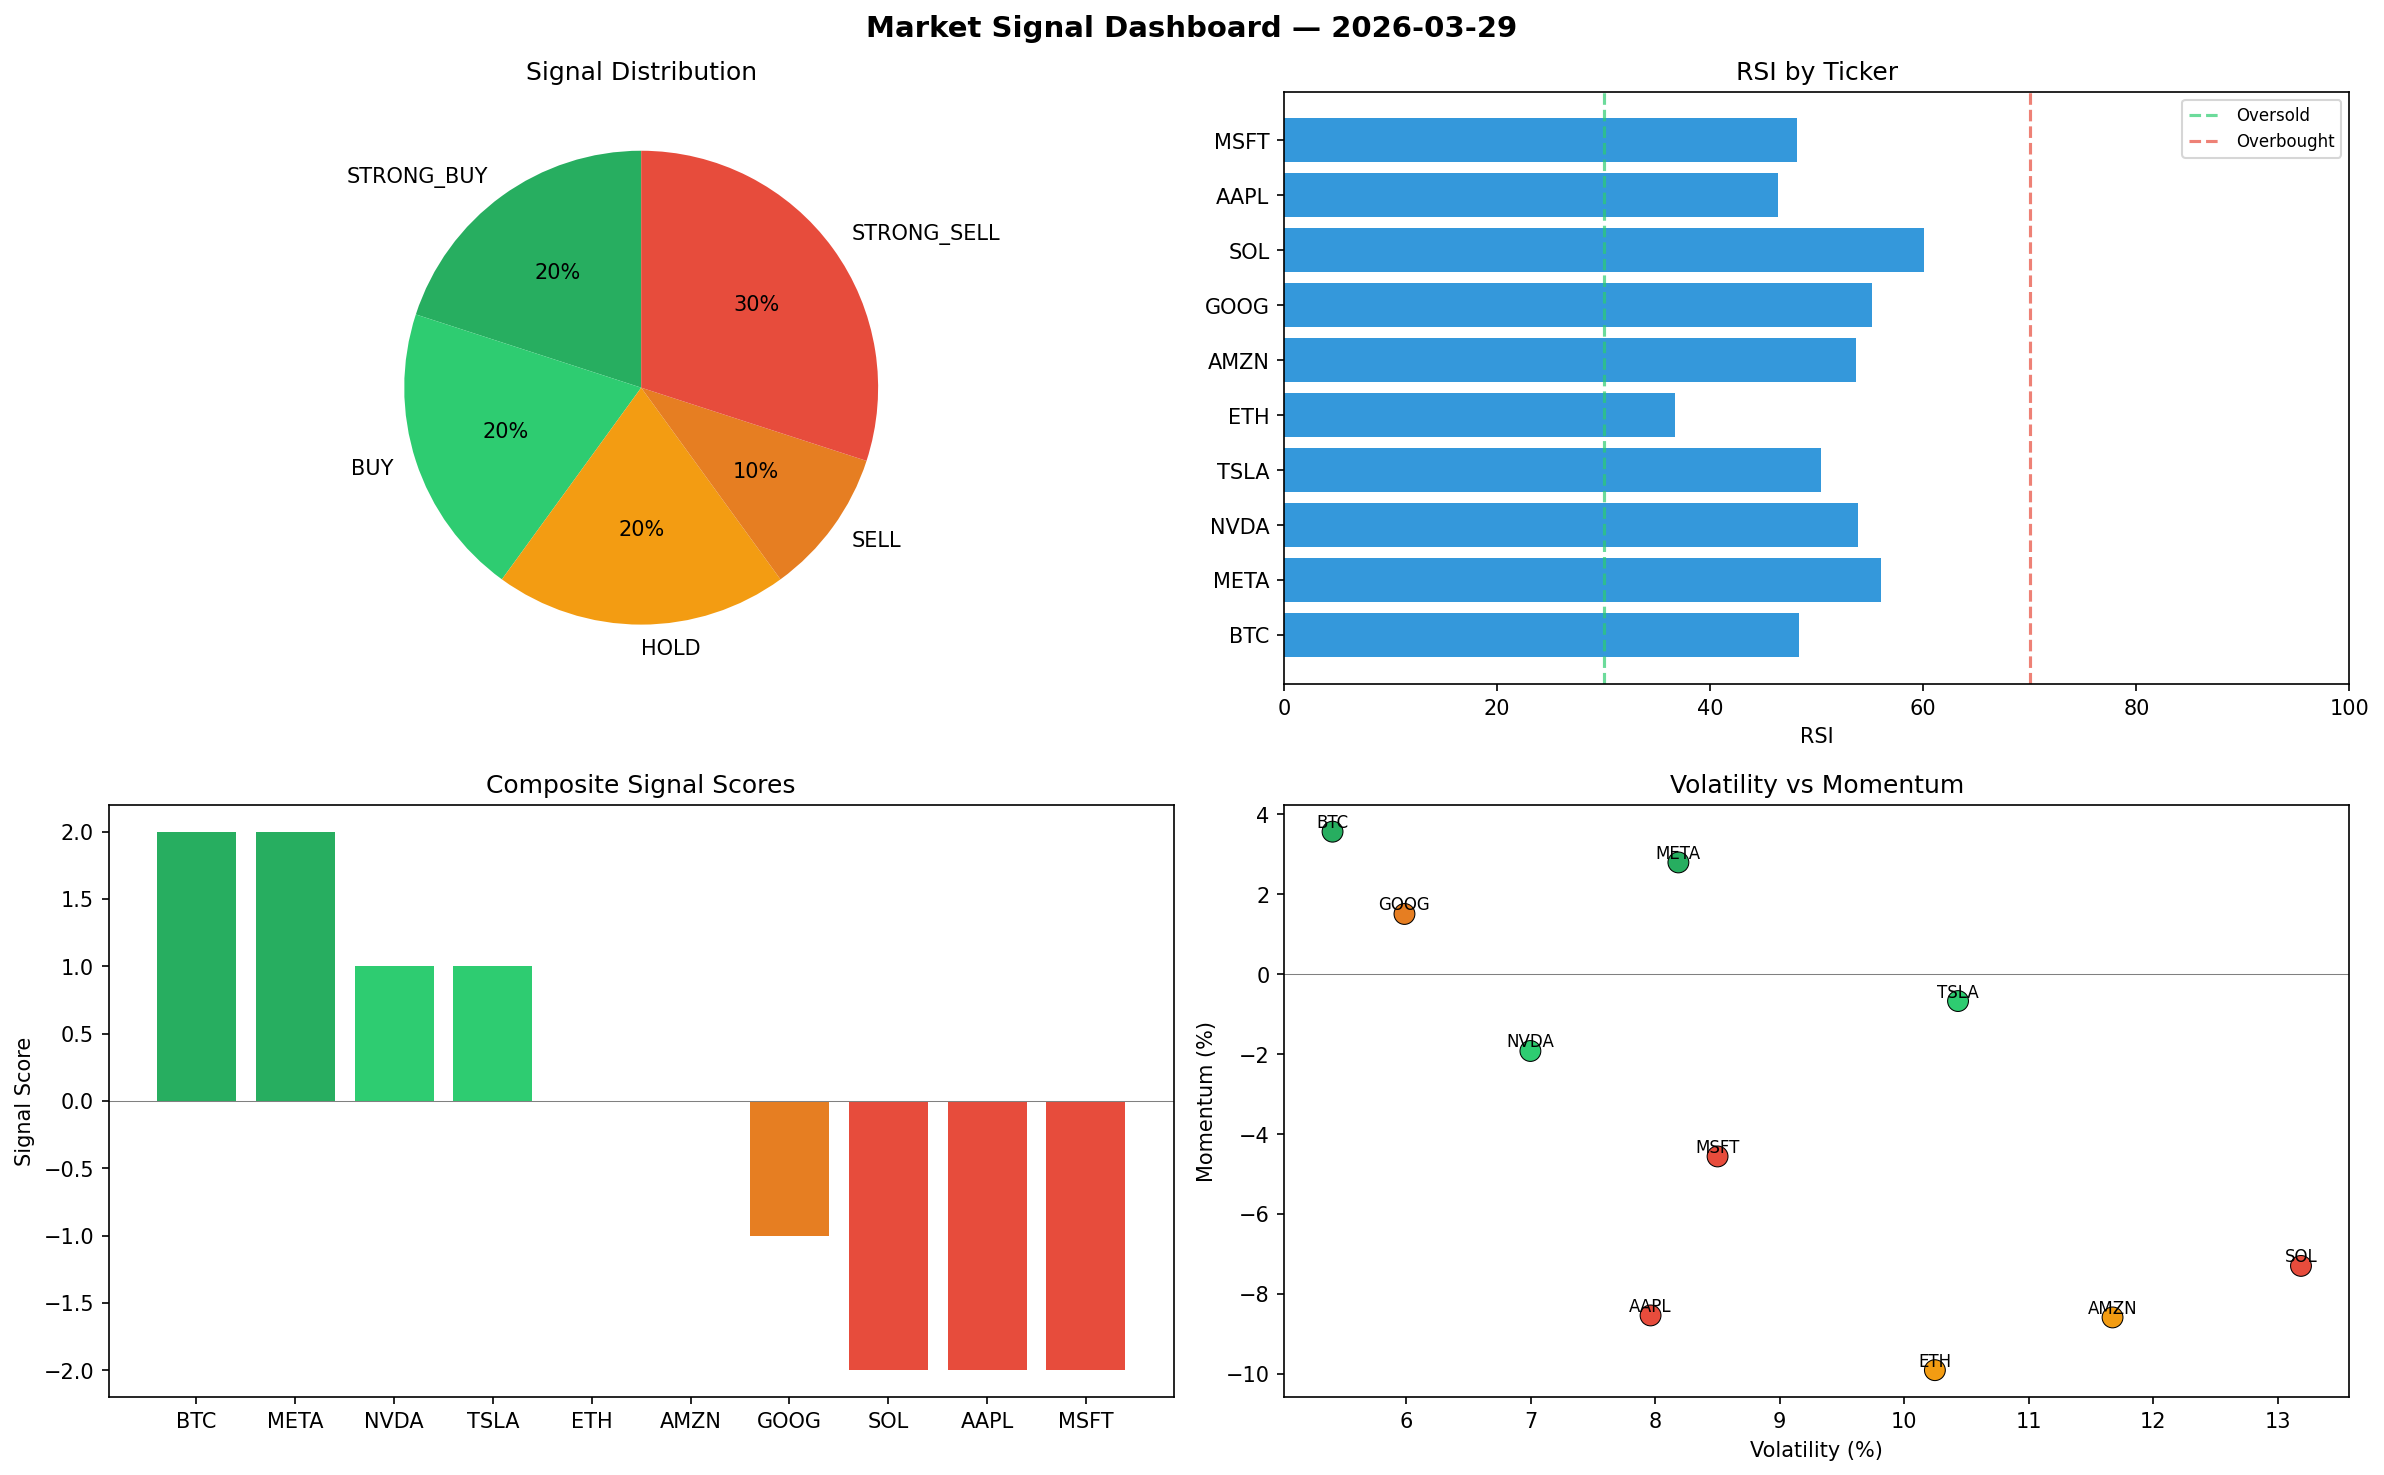
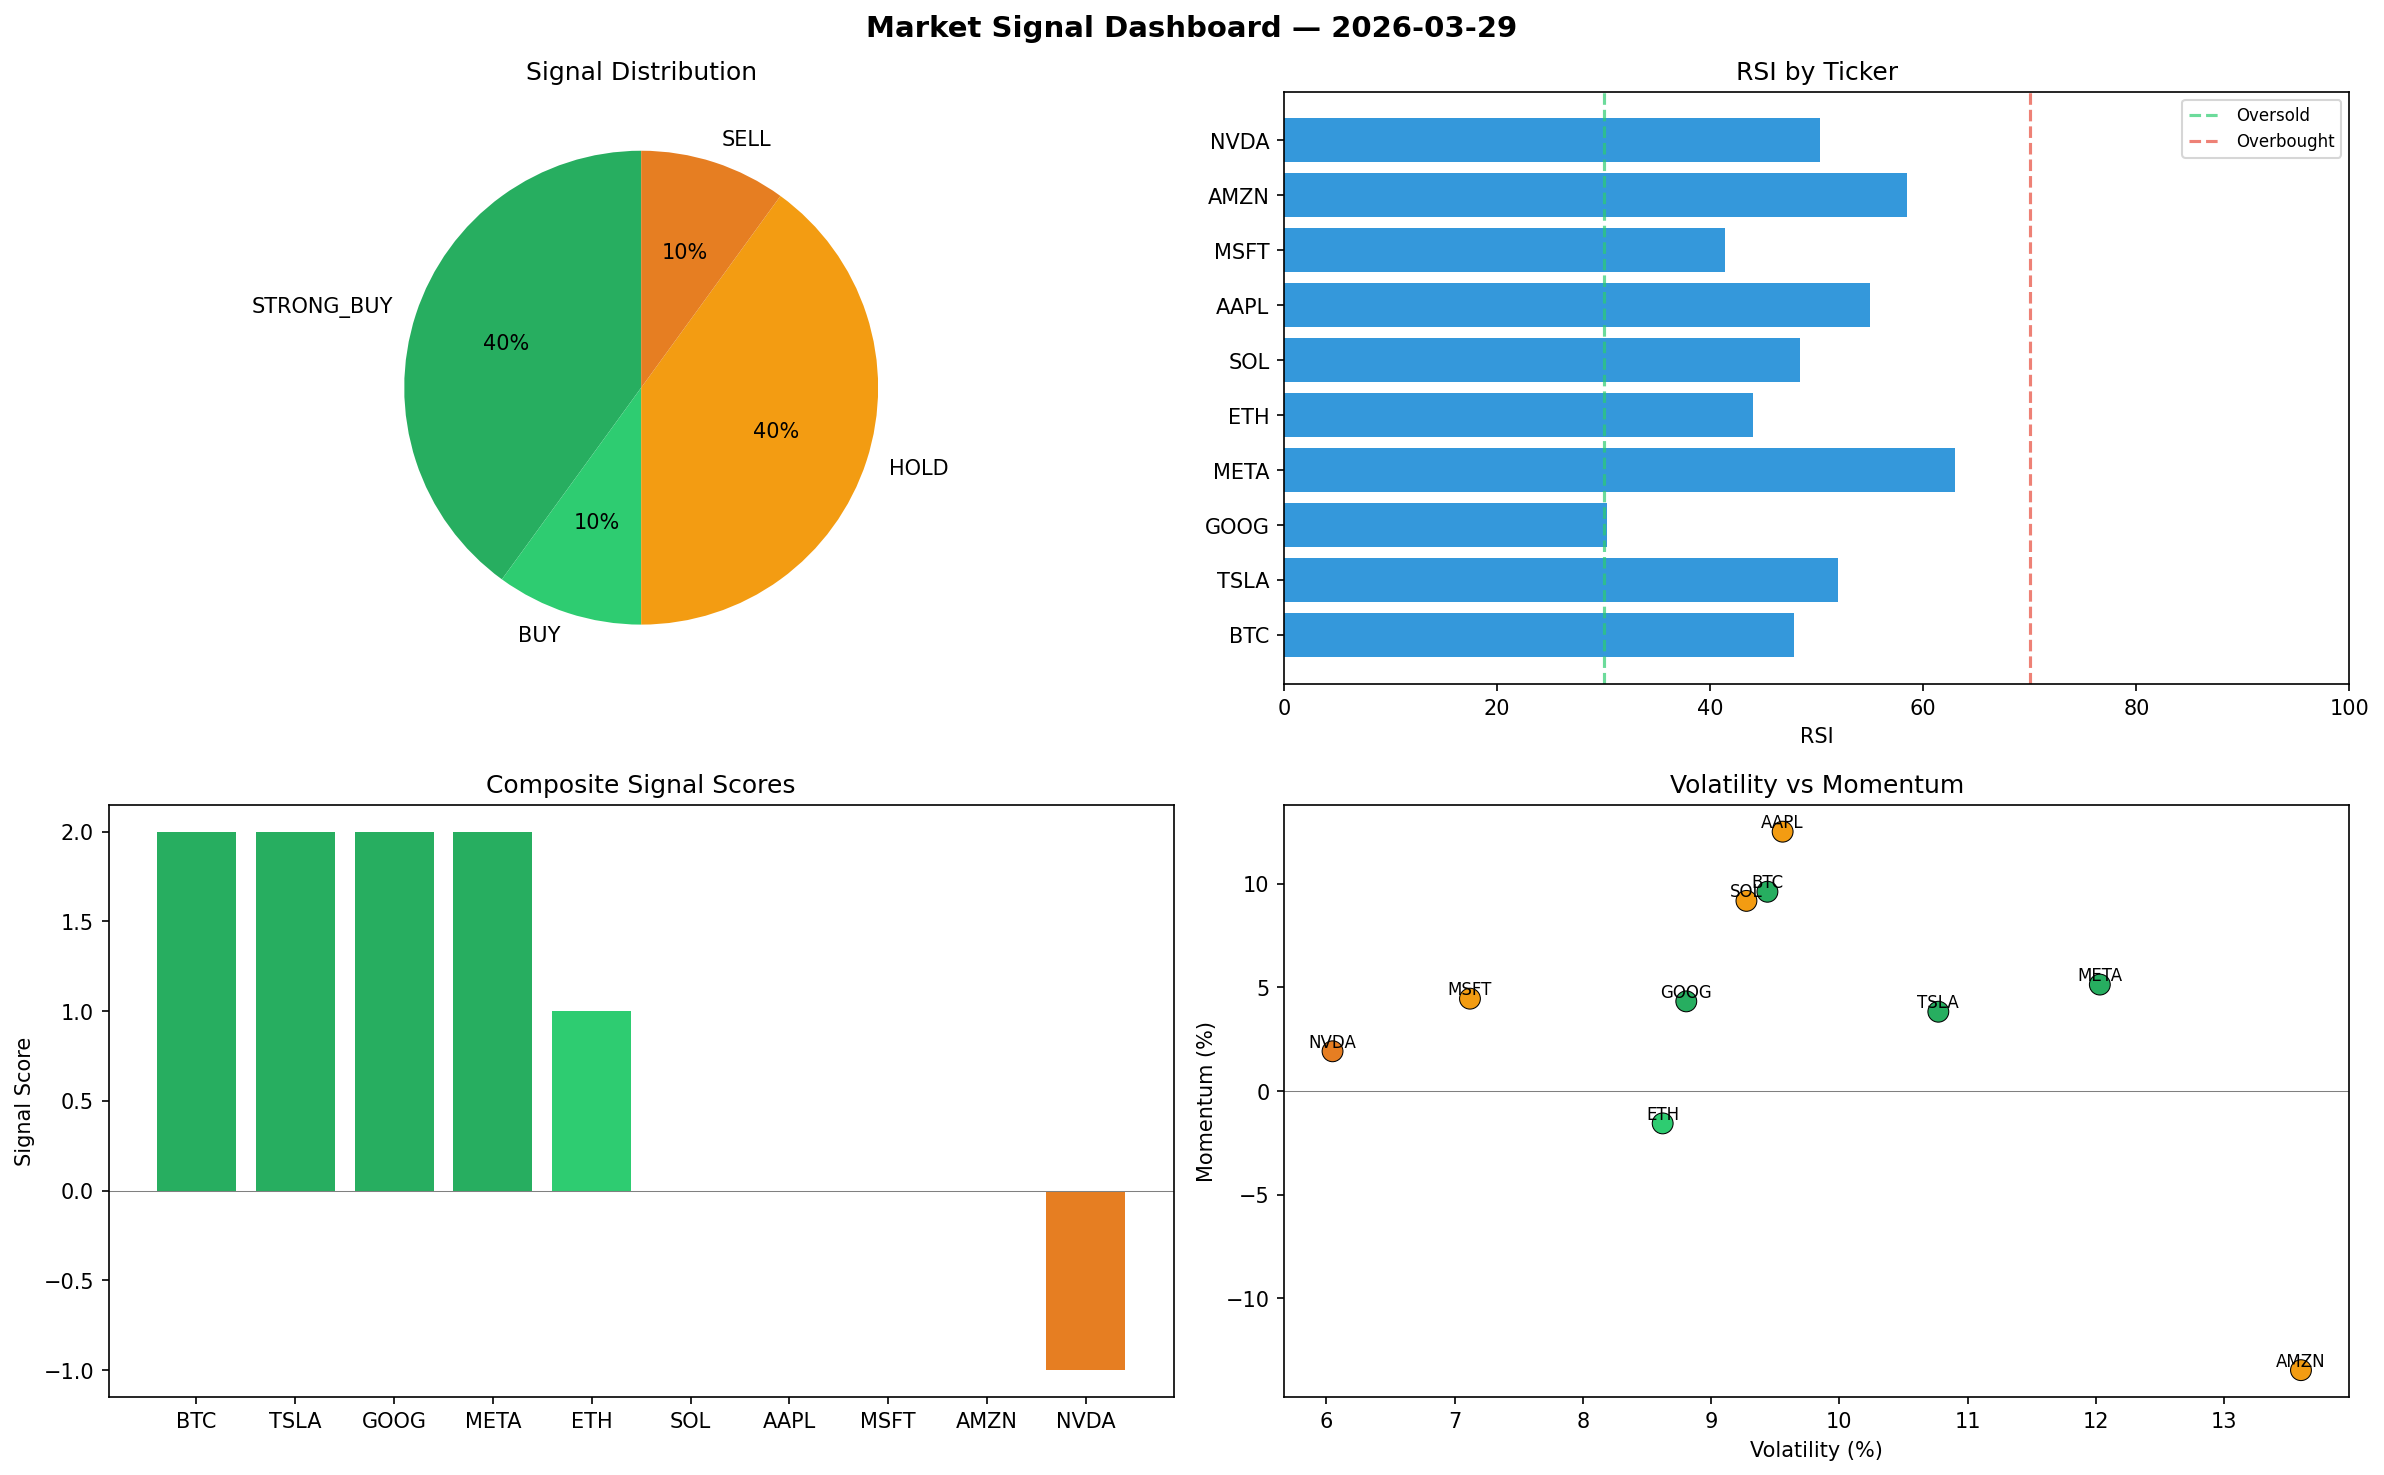
automated-bots: market signals 2026-03-29T09:03

diff --git a/logs/2026-03-29.md b/logs/2026-03-29.md
@@ -1,6 +1,6 @@
 # Market Signal Report — 2026-03-29
 
-**Run ID:** `24650bed4a` | **Buy:** 4 | **Sell:** 4 | **Hold:** 2
+**Run ID:** `c229f74130` | **Buy:** 5 | **Sell:** 1 | **Hold:** 4
 
 ![Dashboard](2026-03-29_dashboard.png)
 
@@ -8,28 +8,28 @@
 
 | Ticker | Price | Signal | Score | RSI | Momentum | Confidence |
 |--------|-------|--------|-------|-----|----------|------------|
-| BTC | $765.34 | **STRONG_BUY** | 2 | 48.33 | 0.0357 | 0.5 |
-| META | $2632.75 | **STRONG_BUY** | 2 | 56.05 | 0.028 | 0.5 |
-| NVDA | $1337.16 | **BUY** | 1 | 53.86 | -0.0192 | 0.25 |
-| TSLA | $487.64 | **BUY** | 1 | 50.38 | -0.0067 | 0.25 |
-| ETH | $1271.97 | **HOLD** | 0 | 36.66 | -0.0991 | 0.0 |
-| AMZN | $674.84 | **HOLD** | 0 | 53.68 | -0.0859 | 0.0 |
-| GOOG | $133.96 | **SELL** | -1 | 55.19 | 0.0151 | 0.25 |
-| SOL | $2201.79 | **STRONG_SELL** | -2 | 60.05 | -0.073 | 0.5 |
-| AAPL | $2887.17 | **STRONG_SELL** | -2 | 46.32 | -0.0854 | 0.5 |
-| MSFT | $931.07 | **STRONG_SELL** | -2 | 48.19 | -0.0456 | 0.5 |
+| BTC | $2885.13 | **STRONG_BUY** | 2 | 47.88 | 0.0962 | 0.5 |
+| TSLA | $3708.75 | **STRONG_BUY** | 2 | 51.96 | 0.0383 | 0.5 |
+| GOOG | $2869.43 | **STRONG_BUY** | 2 | 30.29 | 0.0433 | 0.5 |
+| META | $1777.32 | **STRONG_BUY** | 2 | 62.93 | 0.0514 | 0.5 |
+| ETH | $83.35 | **BUY** | 1 | 44.01 | -0.0156 | 0.25 |
+| SOL | $666.87 | **HOLD** | 0 | 48.46 | 0.0918 | 0.0 |
+| AAPL | $2068.38 | **HOLD** | 0 | 55.02 | 0.1252 | 0.0 |
+| MSFT | $646.83 | **HOLD** | 0 | 41.36 | 0.0446 | 0.0 |
+| AMZN | $2721.17 | **HOLD** | 0 | 58.43 | -0.1347 | 0.0 |
+| NVDA | $806.63 | **SELL** | -1 | 50.3 | 0.0192 | 0.25 |
 
 ## Delta vs Yesterday
 
 | Ticker | Today | Yesterday | Price Change | Signal Changed |
 |--------|-------|-----------|-------------|----------------|
-| BTC | STRONG_BUY | STRONG_BUY | 📉 -54.03% | — |
-| META | STRONG_BUY | SELL | 📈 1254.36% | ⚠ YES |
-| NVDA | BUY | SELL | 📉 -53.47% | ⚠ YES |
-| TSLA | BUY | SELL | 📉 -48.78% | ⚠ YES |
-| ETH | HOLD | HOLD | 📉 -26.91% | — |
-| AMZN | HOLD | STRONG_SELL | 📉 -73.61% | ⚠ YES |
-| GOOG | SELL | BUY | 📉 -75.23% | ⚠ YES |
-| SOL | STRONG_SELL | HOLD | 📈 3.05% | ⚠ YES |
-| AAPL | STRONG_SELL | HOLD | 📉 -8.07% | ⚠ YES |
-| MSFT | STRONG_SELL | BUY | 📉 -76.69% | ⚠ YES |
+| BTC | STRONG_BUY | STRONG_BUY | 📈 73.29% | — |
+| TSLA | STRONG_BUY | SELL | 📈 289.56% | ⚠ YES |
+| GOOG | STRONG_BUY | BUY | 📈 430.54% | ⚠ YES |
+| META | STRONG_BUY | SELL | 📈 814.31% | ⚠ YES |
+| ETH | BUY | HOLD | 📉 -95.21% | ⚠ YES |
+| SOL | HOLD | HOLD | 📉 -68.79% | — |
+| AAPL | HOLD | HOLD | 📉 -34.14% | — |
+| MSFT | HOLD | BUY | 📉 -83.81% | ⚠ YES |
+| AMZN | HOLD | STRONG_SELL | 📈 6.42% | ⚠ YES |
+| NVDA | SELL | SELL | 📉 -71.93% | — |
